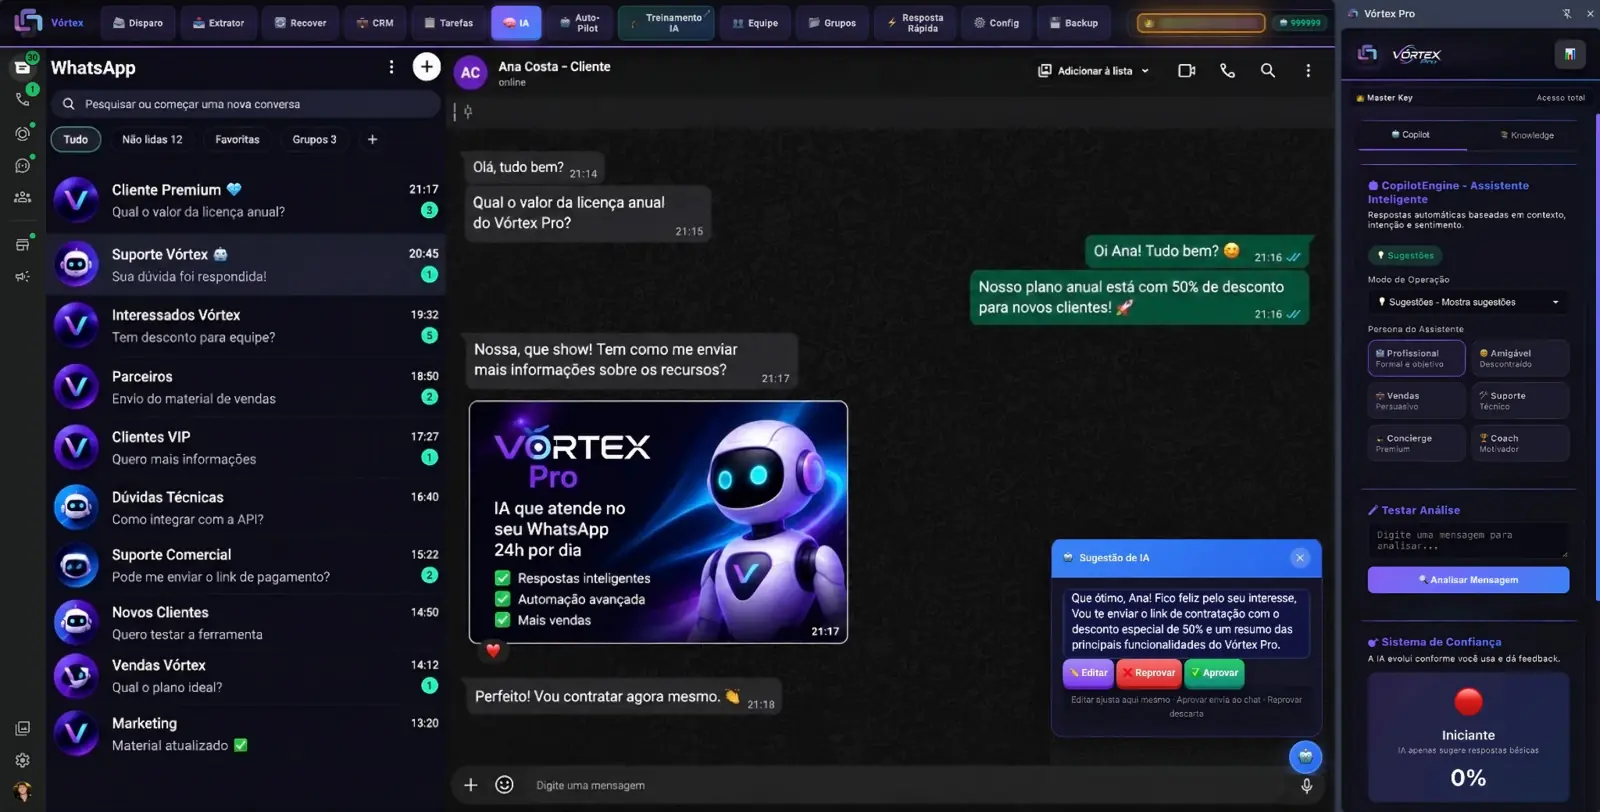
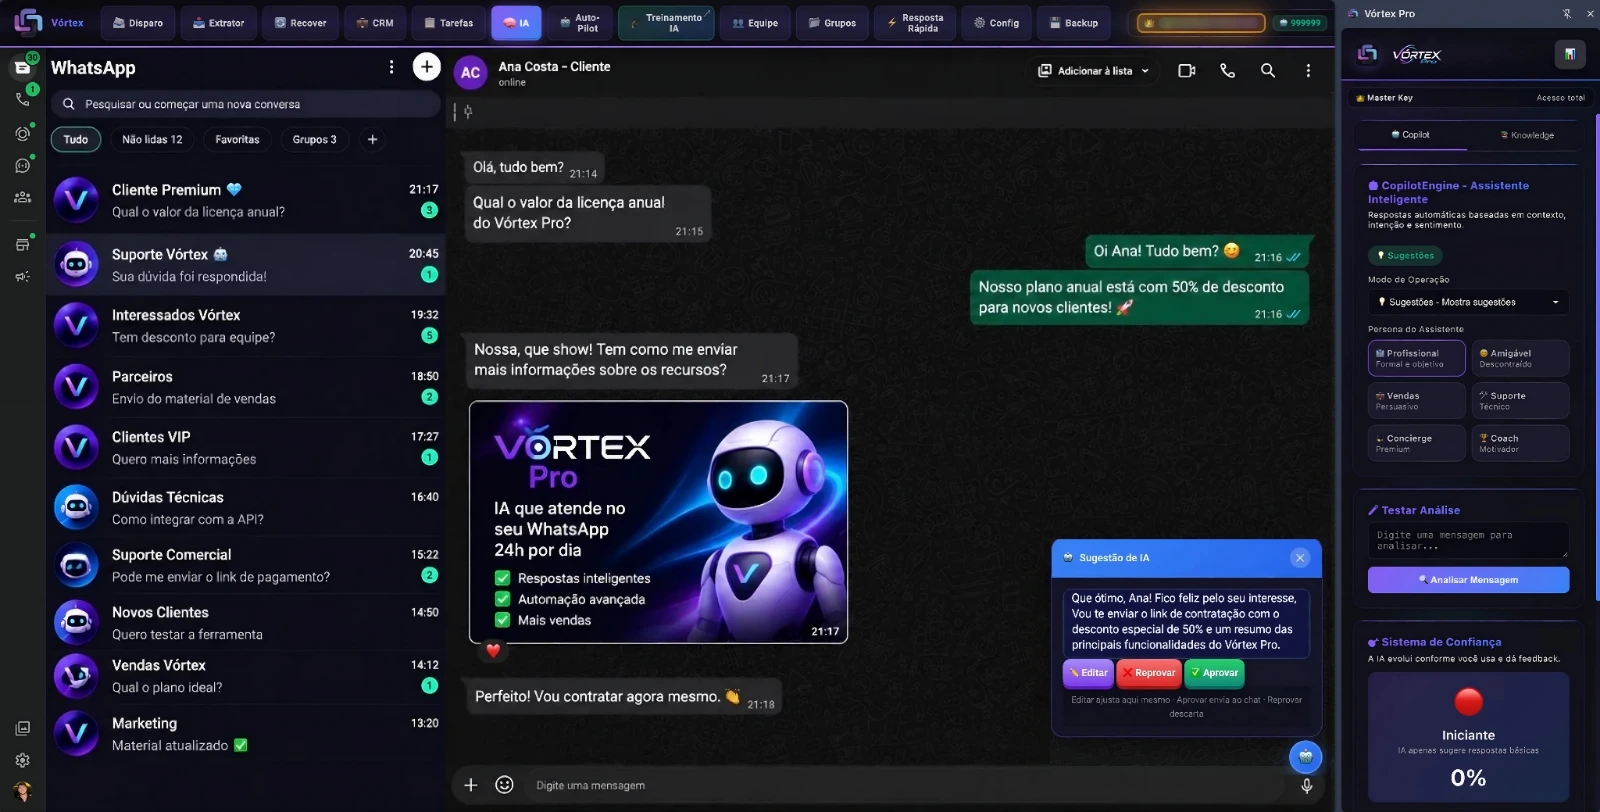
nitidez: o -quality do ImageMagick nao vale para WebP
O dono disse que a captura continuava embacada depois de eu ter
diminuido o painel. Diminuir nao era a cura: a causa e a compressao.

MEDIDO nesta maquina (ImageMagick 6.9.12-98, libwebp 1.3.2):
converter o mesmo PNG com -quality 30, 82 e 95 produz arquivos BYTE A
BYTE IDENTICOS (mesmo md5). So o 100 muda alguma coisa, e vira
lossless (1,5 MB). Em JPEG o mesmo -quality funciona normalmente
(22 KB contra 124 KB), entao nao e erro de uso: o codificador WebP
desta build ignora o parametro e usa o padrao da libwebp, que e 75.

Ou seja, o campo `qualidade` em ALVOS nunca teve efeito nenhum. Tudo
sempre saiu em 75. Para os fundos atras de um veu escuro isso e
indiferente, mas a captura da extensao e uma tela de app inteira com
nomes de conversa e baloes em 11px: em 75 as letras empastelam e o
fundo quadriculado fica blocado.

Correcao: alvos marcados com `nitido: true` passam a ser codificados
pelo Chromium (canvas.toDataURL('image/webp', q)), que respeita a
qualidade. O Chromium ja esta na maquina por causa do Playwright do
audit/harness — nenhuma dependencia nova. Sem Playwright o script
avisa e cai no ImageMagick.

  tela-extensao-2048w.webp  126 KB -> 247 KB
  tela-extensao-1600w.webp   79 KB -> 165 KB
  tela-extensao-1000w.webp   38 KB ->  77 KB

O arquivo e lazy e so baixa quando a secao entra na tela.

Teste: --conferir ganhou um piso de tamanho por largura. Regerando os
tres pelo ImageMagick de proposito, ele acusa os tres (126/79/39 KB
[…]

Changed region(s): [[0.6875, 0.7697, 0.75, 0.8005]]

diff --git a/whatshybrid-backend/scripts/otimizar-imagens.js b/whatshybrid-backend/scripts/otimizar-imagens.js
@@ -17,6 +17,24 @@
  *
  * --conferir não grava nada: só diz se algum WebP está faltando ou mais
  * velho que o original. É o que a CI pode rodar.
+ *
+ * ATENÇÃO — O `-quality` DO IMAGEMAGICK NÃO VALE PARA WEBP.
+ * Medido nesta máquina (ImageMagick 6.9.12-98, libwebp 1.3.2): converter o
+ * mesmo PNG com -quality 30, 82 e 95 produz arquivos BYTE A BYTE IDÊNTICOS
+ * (mesmo md5). Só o 100 muda alguma coisa, e aí vira lossless (1,5 MB).
+ * Em JPEG o mesmo -quality funciona normalmente (22 KB contra 124 KB), então
+ * não é erro de uso: o codificador WebP desta build ignora o parâmetro e usa
+ * o padrão da libwebp, que é 75.
+ *
+ * Consequência: o campo `qualidade` abaixo NUNCA teve efeito nos WebP. Tudo
+ * está em 75. Para fundos atrás de um véu escuro isso é indiferente, mas numa
+ * captura de tela cheia de texto de 11 px o 75 empastela as letras.
+ *
+ * Por isso os alvos marcados com `nitido: true` são codificados pelo Chromium
+ * (canvas.toDataURL('image/webp', q)), que respeita a qualidade de verdade.
+ * O Chromium já está nesta máquina por causa do Playwright do audit/harness —
+ * nenhuma dependência nova. Se o Playwright não estiver instalado o script
+ * avisa e cai no ImageMagick, com a perda de nitidez que isso implica.
  */
 const fs = require('fs');
 const path = require('path');
@@ -45,18 +63,81 @@ const ALVOS = [
   // A marca aparece em TODAS as páginas, exibida em 89x34 — e o arquivo
   // tinha 1105x422 e 235 KB. 240w cobre até 2,7x de densidade de tela.
   { arquivo: 'vortex-pro-wordmark.png', larguras: [240], qualidade: 90 },
-  /* A captura da extensao dentro do WhatsApp Web. O painel final da
-     secao #mostra mede de 998 a 1404 CSS px conforme a janela, entao a
-     versao de 2048 cobre de 1,46x a 2,05x de densidade. Para 2x cheio
-     na janela maior seriam precisos 2808 px de origem; o arquivo que o
-     dono enviou tem 2048. As de 1600 e 1000 servem telas comuns e o
-     celular (que pede 92vw, ~359 px). */
-  { arquivo: 'tela-extensao.png', larguras: [2048, 1600, 1000], qualidade: 82 },
+  /* A captura da extensao dentro do WhatsApp Web: uma tela inteira de
+     app, com nomes de conversa e baloes de mensagem em 11 px. E o unico
+     alvo desta lista em que a compressao se ve a olho nu, por isso
+     `nitido`. Em 75 (o que o ImageMagick entregava) as letras ficam
+     empasteladas e o fundo quadriculado blocado; em 92 ficam limpas.
+     Custo: 126 KB -> 247 KB no arquivo de 2048, que e lazy e so carrega
+     quando a secao entra na tela.
+     O painel final mede de 719 a 1178 CSS px conforme a janela; para
+     ficar nitido tambem em tela Retina sem esticar seriam precisos
+     2356 px de origem, e o arquivo que o dono enviou tem 2048. */
+  { arquivo: 'tela-extensao.png', larguras: [2048, 1600, 1000], qualidade: 92, nitido: true,
+    /* Piso de tamanho por largura. Serve de alarme: se alguem regerar
+       sem o Playwright, o ImageMagick entrega o mesmo arquivo em 75 e
+       ele fica bem menor (126/79/38 KB contra 247/165/77). O
+       --conferir acusa em vez de a perda passar despercebida. */
+    kbMinimo: { 2048: 200, 1600: 130, 1000: 60 } },
 ];
 
 function kb(p) { return Math.round(fs.statSync(p).size / 1024); }
 
+/**
+ * Codificador WebP do Chromium, para os alvos `nitido`. Existe porque o
+ * -quality do ImageMagick nao vale para WebP (ver o cabecalho).
+ * Abre UM navegador e reaproveita para todas as larguras.
+ */
+async function abrirChromium() {
+  let chromium;
+  try { ({ chromium } = require('playwright')); }
+  catch { return null; }
+  const CAMINHOS = ['/opt/pw-browsers/chromium', undefined];
+  for (const executablePath of CAMINHOS) {
+    try {
+      return await chromium.launch({ executablePath, args: ['--no-sandbox'] });
+    } catch { /* tenta o proximo */ }
+  }
+  return null;
+}
+
+async function webpNitido(navegador, origem, saida, largura, qualidade) {
+  const pagina = await navegador.newPage();
+  try {
+    await pagina.goto('file://' + origem, { waitUntil: 'load' });
+    const b64 = await pagina.evaluate(async ([larg, q]) => {
+      const img = document.querySelector('img');
+      await img.decode();
+      // o ">" do ImageMagick: nunca ampliar alem do original
+      const escala = Math.min(1, larg / img.naturalWidth);
+      const lona = document.createElement('canvas');
+      lona.width = Math.round(img.naturalWidth * escala);
+      lona.height = Math.round(img.naturalHeight * escala);
+      const ctx = lona.getContext('2d');
+      ctx.imageSmoothingEnabled = true;
+      ctx.imageSmoothingQuality = 'high';
+      ctx.drawImage(img, 0, 0, lona.width, lona.height);
+      return lona.toDataURL('image/webp', q).split(',')[1];
+    }, [largura, qualidade / 100]);
+    fs.writeFileSync(saida, Buffer.from(b64, 'base64'));
+  } finally {
+    await pagina.close();
+  }
+}
+
+(async () => {
+
 let faltando = 0, gerados = 0, antes = 0, depois = 0;
+let navegador = null;
+
+if (!CONFERIR && ALVOS.some((a) => a.nitido)) {
+  navegador = await abrirChromium();
+  if (!navegador) {
+    console.error('  ! Playwright/Chromium indisponivel: os alvos "nitido" vao');
+    console.error('    sair pelo ImageMagick, que ignora a qualidade e usa 75.');
+    console.error('    Instale com: npm install  (na raiz do repositorio)');
+  }
+}
 
 for (const alvo of ALVOS) {
   const origem = path.join(ASSETS, alvo.arquivo);
@@ -72,20 +153,32 @@ for (const alvo of ALVOS) {
       else if (fs.statSync(saida).mtimeMs < fs.statSync(origem).mtimeMs) {
         console.error(`  ✗ ${path.basename(saida)} é mais velho que o original`); faltando++;
       }
+      else if (alvo.kbMinimo && alvo.kbMinimo[larg] && kb(saida) < alvo.kbMinimo[larg]) {
+        console.error(`  ✗ ${path.basename(saida)} tem ${kb(saida)} KB, menos que os ` +
+                      `${alvo.kbMinimo[larg]} KB esperados em qualidade ${alvo.qualidade}. ` +
+                      `Provavelmente foi gerado pelo ImageMagick, que ignora a qualidade e usa 75.`);
+        faltando++;
+      }
       continue;
     }
 
-    execFileSync('convert', [
-      origem,
-      '-resize', `${larg}x>`,       // o ">" impede ampliar além do original
-      '-strip',                      // fora metadados de câmera/editor
-      '-quality', String(alvo.qualidade),
-      '-define', 'webp:method=6',    // mais lento para comprimir, menor no fim
-      saida,
-    ]);
+    const porChromium = alvo.nitido && navegador;
+    if (porChromium) {
+      await webpNitido(navegador, origem, saida, larg, alvo.qualidade);
+    } else {
+      execFileSync('convert', [
+        origem,
+        '-resize', `${larg}x>`,       // o ">" impede ampliar além do original
+        '-strip',                      // fora metadados de câmera/editor
+        '-quality', String(alvo.qualidade),
+        '-define', 'webp:method=6',    // mais lento para comprimir, menor no fim
+        saida,
+      ]);
+    }
     depois += fs.statSync(saida).size;
     gerados++;
-    console.log(`  ✓ ${path.basename(saida).padEnd(34)} ${String(kb(saida)).padStart(5)} KB   (origem ${kb(origem)} KB)`);
+    console.log(`  ✓ ${path.basename(saida).padEnd(34)} ${String(kb(saida)).padStart(5)} KB` +
+                `   (origem ${kb(origem)} KB${porChromium ? ', q' + alvo.qualidade + ' pelo Chromium' : ''})`);
   }
 }
 
@@ -95,6 +188,10 @@ if (CONFERIR) {
   process.exit(0);
 }
 
+if (navegador) await navegador.close();
+
 console.log(`\n${gerados} arquivo(s) gerado(s).`);
 console.log(`originais: ${(antes/1048576).toFixed(1)} MB   →   WebP: ${(depois/1048576).toFixed(1)} MB   (${Math.round((1 - depois/antes) * 100)}% menor)`);
 console.log('Os originais ficam no repositório: são o fallback e a fonte para regerar.');
+
+})();
